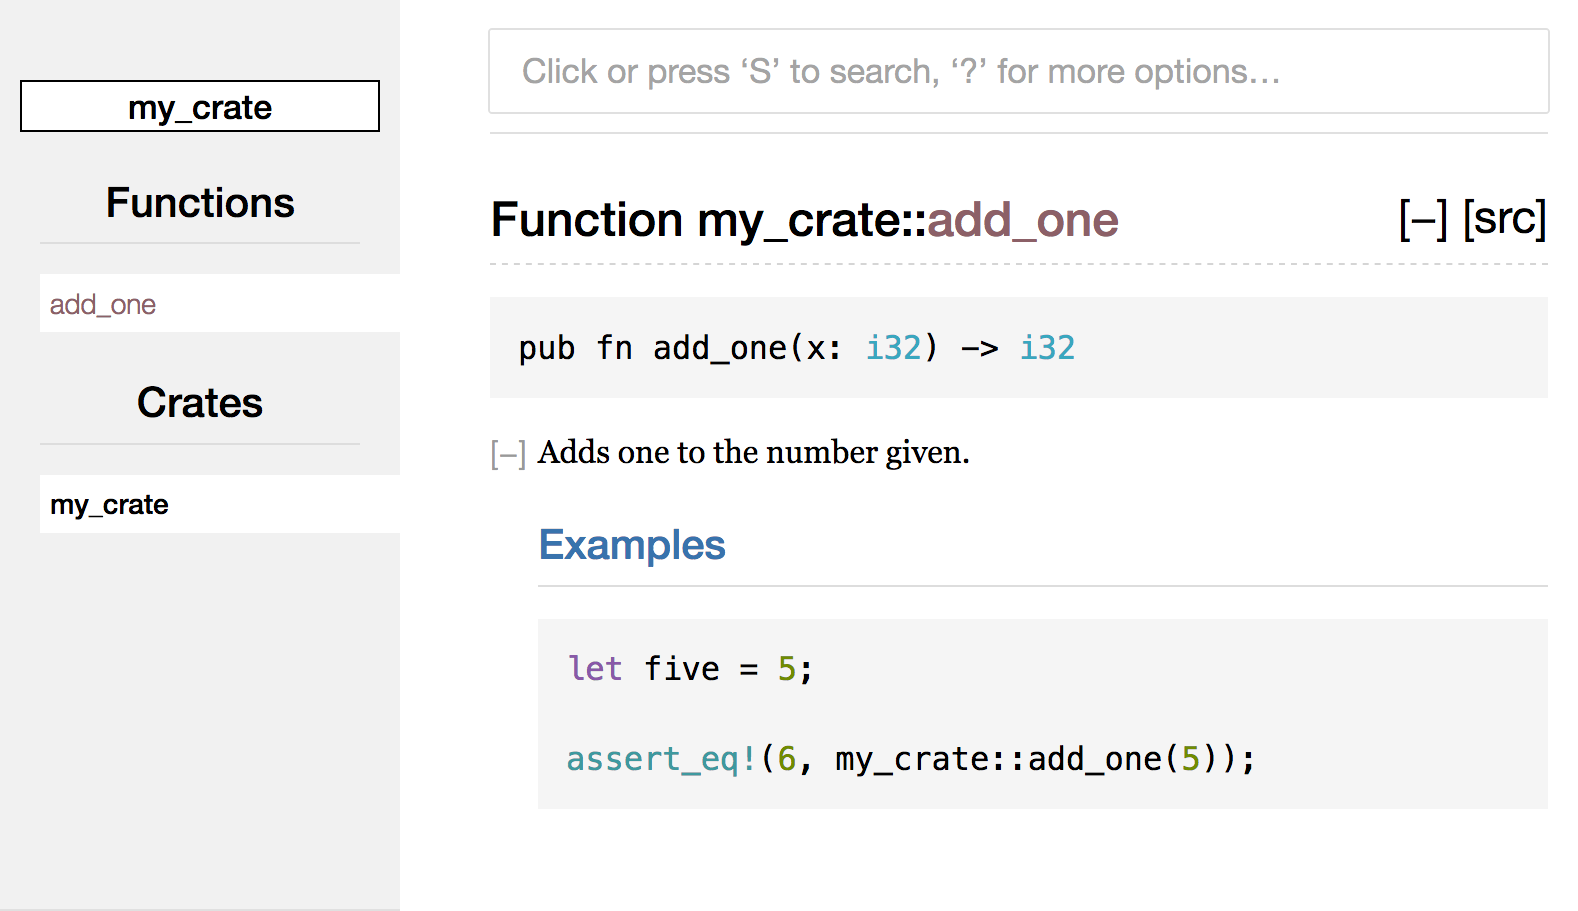
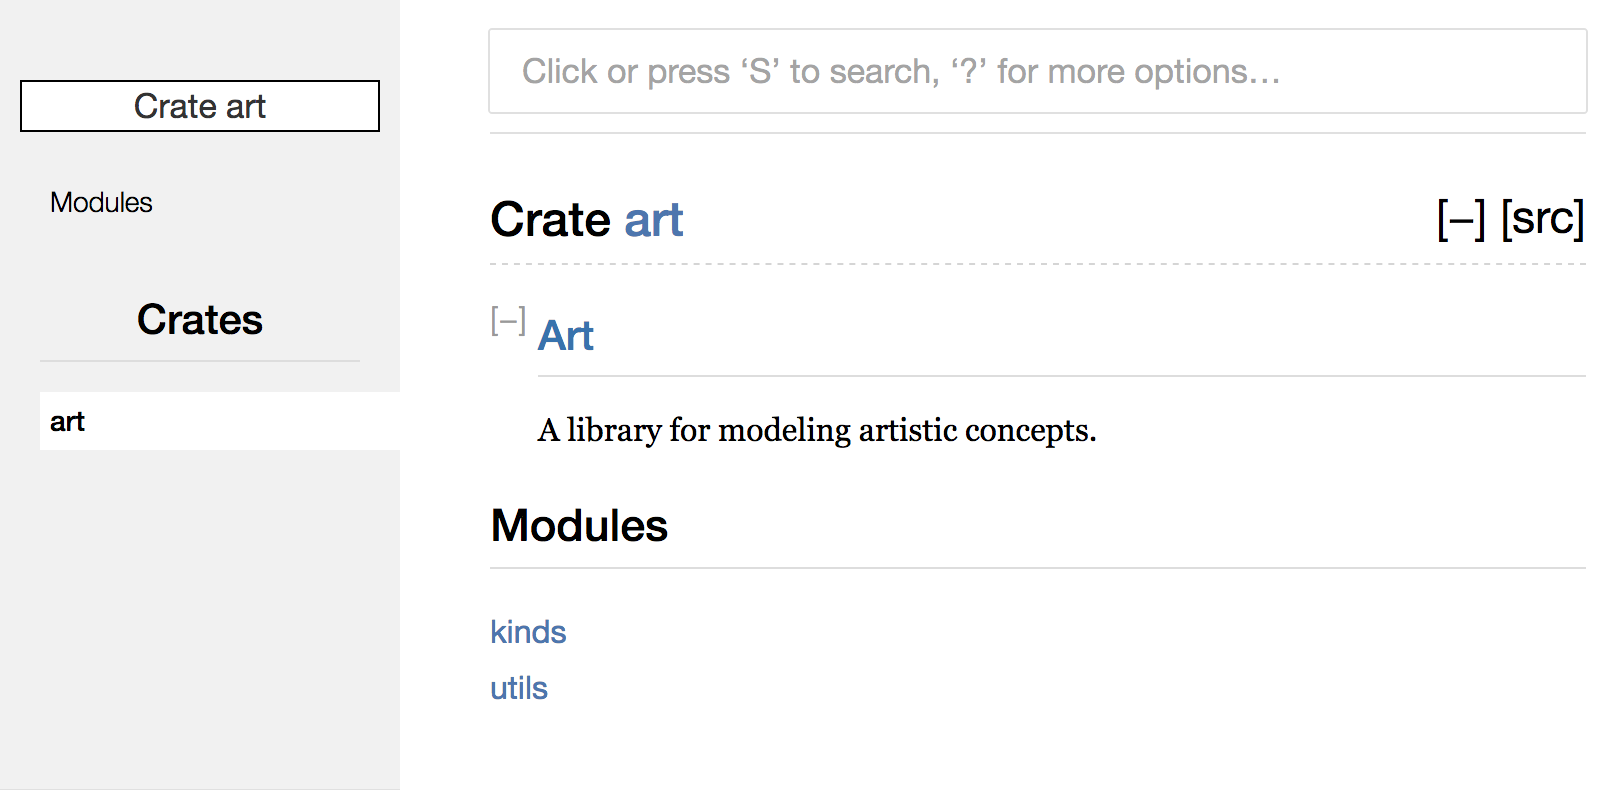
Redo listing/figure numberings in chapter 14
Figures and Listings have their own sequence.

And fix the filenames of the screenshots so they match.

diff --git a/second-edition/nostarch/chapter14.md b/second-edition/nostarch/chapter14.md
@@ -147,11 +147,11 @@ For convenience, running `cargo doc --open` will build the HTML for your
 current crate’s documentation (as well as the documentation for all of your
 crate’s dependencies) and open the result in a web browser. Navigate to the
 `add_one` function and you’ll see how the text in the documentation comments
-gets rendered, shown here in Figure 14-2:
+gets rendered, shown here in Figure 14-1:
 
-<img alt="Rendered HTML documentation for the `add_one` function of `my_crate`" src="img/trpl14-03.png" class="center" />
+<img alt="Rendered HTML documentation for the `add_one` function of `my_crate`" src="img/trpl14-01.png" class="center" />
 
-Figure 14-2: HTML documentation for the `add_one` function
+Figure 14-1: HTML documentation for the `add_one` function
 
 #### Commonly Used Sections
 
@@ -209,7 +209,7 @@ module as a whole.
 For example, if we wanted to add documentation that described the purpose of
 the `my_crate` crate that contains the `add_one` function, we can add
 documentation comments that start with `//!` to the beginning of *src/lib.rs*
-as shown in Listing 14-3:
+as shown in Listing 14-2:
 
 Filename: src/lib.rs
 
@@ -223,7 +223,7 @@ Filename: src/lib.rs
 // --snip--
 ```
 
-Listing 14-3: Documentation for the `my_crate` crate as a whole
+Listing 14-2: Documentation for the `my_crate` crate as a whole
 
 Notice there isn’t any code after the last line that begins with `//!`. Because
 we started the comments with `//!` instead of `///`, we’re documenting the item
@@ -233,11 +233,11 @@ is the crate root. These comments describe the entire crate.
 
 If we run `cargo doc --open`, we’ll see these comments displayed on the front
 page of the documentation for `my_crate` above the list of public items in the
-crate, as shown in Figure 14-4:
+crate, as shown in Figure 14-2:
 
-<img alt="Rendered HTML documentation with a comment for the crate as a whole" src="img/trpl14-05.png" class="center" />
+<img alt="Rendered HTML documentation with a comment for the crate as a whole" src="img/trpl14-02.png" class="center" />
 
-Figure 14-4: Rendered documentation for `my_crate` including the comment
+Figure 14-2: Rendered documentation for `my_crate` including the comment
 describing the crate as a whole
 
 Documentation comments within items are useful for describing crates and
@@ -272,7 +272,7 @@ the other location instead.
 For example, say we made a library named `art` for modeling artistic concepts.
 Within this library is a `kinds` module containing two enums named
 `PrimaryColor` and `SecondaryColor` and a `utils` module containing a function
-named `mix` as shown in Listing 14-5:
+named `mix` as shown in Listing 14-3:
 
 Filename: src/lib.rs
 
@@ -308,15 +308,15 @@ pub mod utils {
 }
 ```
 
-Listing 14-5: An `art` library with items organized into `kinds` and `utils`
+Listing 14-3: An `art` library with items organized into `kinds` and `utils`
 modules
 
 The front page of the documentation for this crate generated by `cargo doc`
-would look like Figure 14-6:
+would look like Figure 14-3:
 
-<img alt="Rendered documentation for the `art` crate that lists the `kinds` and `utils` modules" src="img/trpl14-07.png" class="center" />
+<img alt="Rendered documentation for the `art` crate that lists the `kinds` and `utils` modules" src="img/trpl14-03.png" class="center" />
 
-Figure 14-6: Front page of the documentation for `art` that lists the `kinds`
+Figure 14-3: Front page of the documentation for `art` that lists the `kinds`
 and `utils` modules
 
 Note that the `PrimaryColor` and `SecondaryColor` types aren’t listed on the
@@ -325,7 +325,7 @@ in order to see them.
 
 Another crate depending on this library would need `use` statements that import
 the items from `art` including specifying the module structure that’s currently
-defined. Listing 14-7 shows an example of a crate that uses the `PrimaryColor`
+defined. Listing 14-4 shows an example of a crate that uses the `PrimaryColor`
 and `mix` items from the `art` crate:
 
 Filename: src/main.rs
@@ -343,10 +343,10 @@ fn main() {
 }
 ```
 
-Listing 14-7: A crate using the `art` crate’s items with its internal structure
+Listing 14-4: A crate using the `art` crate’s items with its internal structure
 exported
 
-The author of the code in Listing 14-7 that uses the `art` crate had to figure
+The author of the code in Listing 14-4 that uses the `art` crate had to figure
 out that `PrimaryColor` is in the `kinds` module and `mix` is in the `utils`
 module. The module structure of the `art` crate is more relevant to developers
 working on the `art` crate than developers using the `art` crate. The internal
@@ -357,8 +357,8 @@ confusion in having to figure out where to look and inconvenience in having to
 specify the module names in the `use` statements.
 
 To remove the internal organization from the public API, we can take the `art`
-crate code from Listing 14-5 and add `pub use` statements to re-export the
-items at the top level, as shown in Listing 14-8:
+crate code from Listing 14-3 and add `pub use` statements to re-export the
+items at the top level, as shown in Listing 14-5:
 
 Filename: src/lib.rs
 
@@ -380,20 +380,19 @@ pub mod utils {
 }
 ```
 
-Listing 14-8: Adding `pub use` statements to re-export items
+Listing 14-5: Adding `pub use` statements to re-export items
 
 The API documentation generated with `cargo doc` for this crate will now list
-and link re-exports on the front page as shown in Figure 14-9, which makes
+and link re-exports on the front page as shown in Figure 14-4, which makes
 these types easier to find.
 
-<img alt="Rendered documentation for the `art` crate with the re-exports on the front page" src="img/trpl14-10.png" class="center" />
+<img alt="Rendered documentation for the `art` crate with the re-exports on the front page" src="img/trpl14-04.png" class="center" />
 
-Figure 14-9: Front page of the documentation for `art` that lists the
-re-exports
+Figure 14-4: Front page of the documentation for `art` that lists the re-exports
 
 Users of the `art` crate can still see and choose to use the internal structure
-as in Listing 14-7, or they can use the more convenient structure from Listing
-14-8, as shown in Listing 14-10:
+as in Listing 14-3, or they can use the more convenient structure from Listing
+14-5, as shown in Listing 14-6:
 
 Filename: src/main.rs
 
@@ -408,7 +407,7 @@ fn main() {
 }
 ```
 
-Listing 14-10: A program using the re-exported items from the `art` crate
+Listing 14-6: A program using the re-exported items from the `art` crate
 
 In cases where there are many nested modules, re-exporting the types at the top
 level with `pub use` can make a big difference in the experience of people who
@@ -687,7 +686,7 @@ pub fn add_one(x: i32) -> i32 {
 
 Open up *src/main.rs* for `adder` and add an `extern crate` line at the top of
 the file to bring the new `add-one` library crate into scope. Then change the
-`main` function to call the `add_one` function, as in Listing 14-11:
+`main` function to call the `add_one` function, as in Listing 14-7:
 
 Filename: src/main.rs
 
@@ -700,7 +699,7 @@ fn main() {
 }
 ```
 
-Listing 14-11: Using the `add-one` library crate from the `adder` crate
+Listing 14-7: Using the `add-one` library crate from the `adder` crate
 
 Let’s build the `adder` crate by running `cargo build` in the *adder* directory!
 

diff --git a/second-edition/src/ch14-02-publishing-to-crates-io.md b/second-edition/src/ch14-02-publishing-to-crates-io.md
@@ -56,11 +56,11 @@ For convenience, running `cargo doc --open` will build the HTML for your
 current crate’s documentation (as well as the documentation for all of your
 crate’s dependencies) and open the result in a web browser. Navigate to the
 `add_one` function and you’ll see how the text in the documentation comments
-gets rendered, shown here in Figure 14-2:
+gets rendered, shown here in Figure 14-1:
 
-<img alt="Rendered HTML documentation for the `add_one` function of `my_crate`" src="img/trpl14-03.png" class="center" />
+<img alt="Rendered HTML documentation for the `add_one` function of `my_crate`" src="img/trpl14-01.png" class="center" />
 
-<span class="caption">Figure 14-2: HTML documentation for the `add_one`
+<span class="caption">Figure 14-1: HTML documentation for the `add_one`
 function</span>
 
 #### Commonly Used Sections
@@ -119,7 +119,7 @@ module as a whole.
 For example, if we wanted to add documentation that described the purpose of
 the `my_crate` crate that contains the `add_one` function, we can add
 documentation comments that start with `//!` to the beginning of *src/lib.rs*
-as shown in Listing 14-3:
+as shown in Listing 14-2:
 
 <span class="filename">Filename: src/lib.rs</span>
 
@@ -133,7 +133,7 @@ as shown in Listing 14-3:
 // --snip--
 ```
 
-<span class="caption">Listing 14-3: Documentation for the `my_crate` crate as a
+<span class="caption">Listing 14-2: Documentation for the `my_crate` crate as a
 whole</span>
 
 Notice there isn’t any code after the last line that begins with `//!`. Because
@@ -144,11 +144,11 @@ is the crate root. These comments describe the entire crate.
 
 If we run `cargo doc --open`, we’ll see these comments displayed on the front
 page of the documentation for `my_crate` above the list of public items in the
-crate, as shown in Figure 14-4:
+crate, as shown in Figure 14-2:
 
-<img alt="Rendered HTML documentation with a comment for the crate as a whole" src="img/trpl14-05.png" class="center" />
+<img alt="Rendered HTML documentation with a comment for the crate as a whole" src="img/trpl14-02.png" class="center" />
 
-<span class="caption">Figure 14-4: Rendered documentation for `my_crate`
+<span class="caption">Figure 14-2: Rendered documentation for `my_crate`
 including the comment describing the crate as a whole</span>
 
 Documentation comments within items are useful for describing crates and
@@ -183,7 +183,7 @@ the other location instead.
 For example, say we made a library named `art` for modeling artistic concepts.
 Within this library is a `kinds` module containing two enums named
 `PrimaryColor` and `SecondaryColor` and a `utils` module containing a function
-named `mix` as shown in Listing 14-5:
+named `mix` as shown in Listing 14-3:
 
 <span class="filename">Filename: src/lib.rs</span>
 
@@ -219,15 +219,15 @@ pub mod utils {
 }
 ```
 
-<span class="caption">Listing 14-5: An `art` library with items organized into
+<span class="caption">Listing 14-3: An `art` library with items organized into
 `kinds` and `utils` modules</span>
 
 The front page of the documentation for this crate generated by `cargo doc`
-would look like Figure 14-6:
+would look like Figure 14-3:
 
-<img alt="Rendered documentation for the `art` crate that lists the `kinds` and `utils` modules" src="img/trpl14-07.png" class="center" />
+<img alt="Rendered documentation for the `art` crate that lists the `kinds` and `utils` modules" src="img/trpl14-03.png" class="center" />
 
-<span class="caption">Figure 14-6: Front page of the documentation for `art`
+<span class="caption">Figure 14-3: Front page of the documentation for `art`
 that lists the `kinds` and `utils` modules</span>
 
 Note that the `PrimaryColor` and `SecondaryColor` types aren’t listed on the
@@ -236,7 +236,7 @@ in order to see them.
 
 Another crate depending on this library would need `use` statements that import
 the items from `art` including specifying the module structure that’s currently
-defined. Listing 14-7 shows an example of a crate that uses the `PrimaryColor`
+defined. Listing 14-4 shows an example of a crate that uses the `PrimaryColor`
 and `mix` items from the `art` crate:
 
 <span class="filename">Filename: src/main.rs</span>
@@ -254,10 +254,10 @@ fn main() {
 }
 ```
 
-<span class="caption">Listing 14-7: A crate using the `art` crate’s items with
+<span class="caption">Listing 14-4: A crate using the `art` crate’s items with
 its internal structure exported</span>
 
-The author of the code in Listing 14-7 that uses the `art` crate had to figure
+The author of the code in Listing 14-4 that uses the `art` crate had to figure
 out that `PrimaryColor` is in the `kinds` module and `mix` is in the `utils`
 module. The module structure of the `art` crate is more relevant to developers
 working on the `art` crate than developers using the `art` crate. The internal
@@ -268,8 +268,8 @@ confusion in having to figure out where to look and inconvenience in having to
 specify the module names in the `use` statements.
 
 To remove the internal organization from the public API, we can take the `art`
-crate code from Listing 14-5 and add `pub use` statements to re-export the
-items at the top level, as shown in Listing 14-8:
+crate code from Listing 14-3 and add `pub use` statements to re-export the
+items at the top level, as shown in Listing 14-5:
 
 <span class="filename">Filename: src/lib.rs</span>
 
@@ -291,21 +291,21 @@ pub mod utils {
 }
 ```
 
-<span class="caption">Listing 14-8: Adding `pub use` statements to re-export
+<span class="caption">Listing 14-5: Adding `pub use` statements to re-export
 items</span>
 
 The API documentation generated with `cargo doc` for this crate will now list
-and link re-exports on the front page as shown in Figure 14-9, which makes
+and link re-exports on the front page as shown in Figure 14-4, which makes
 these types easier to find.
 
-<img alt="Rendered documentation for the `art` crate with the re-exports on the front page" src="img/trpl14-10.png" class="center" />
+<img alt="Rendered documentation for the `art` crate with the re-exports on the front page" src="img/trpl14-04.png" class="center" />
 
-<span class="caption">Figure 14-9: Front page of the documentation for `art`
+<span class="caption">Figure 14-4: Front page of the documentation for `art`
 that lists the re-exports</span>
 
 Users of the `art` crate can still see and choose to use the internal structure
-as in Listing 14-7, or they can use the more convenient structure from Listing
-14-8, as shown in Listing 14-10:
+as in Listing 14-3, or they can use the more convenient structure from Listing
+14-5, as shown in Listing 14-6:
 
 <span class="filename">Filename: src/main.rs</span>
 
@@ -320,7 +320,7 @@ fn main() {
 }
 ```
 
-<span class="caption">Listing 14-10: A program using the re-exported items from
+<span class="caption">Listing 14-6: A program using the re-exported items from
 the `art` crate</span>
 
 In cases where there are many nested modules, re-exporting the types at the top

diff --git a/second-edition/src/ch14-03-cargo-workspaces.md b/second-edition/src/ch14-03-cargo-workspaces.md
@@ -92,7 +92,7 @@ pub fn add_one(x: i32) -> i32 {
 
 Open up *src/main.rs* for `adder` and add an `extern crate` line at the top of
 the file to bring the new `add-one` library crate into scope. Then change the
-`main` function to call the `add_one` function, as in Listing 14-11:
+`main` function to call the `add_one` function, as in Listing 14-7:
 
 <span class="filename">Filename: src/main.rs</span>
 
@@ -105,7 +105,7 @@ fn main() {
 }
 ```
 
-<span class="caption">Listing 14-11: Using the `add-one` library crate from the
+<span class="caption">Listing 14-7: Using the `add-one` library crate from the
 `adder` crate</span>
 
 Let’s build the `adder` crate by running `cargo build` in the *adder* directory!
